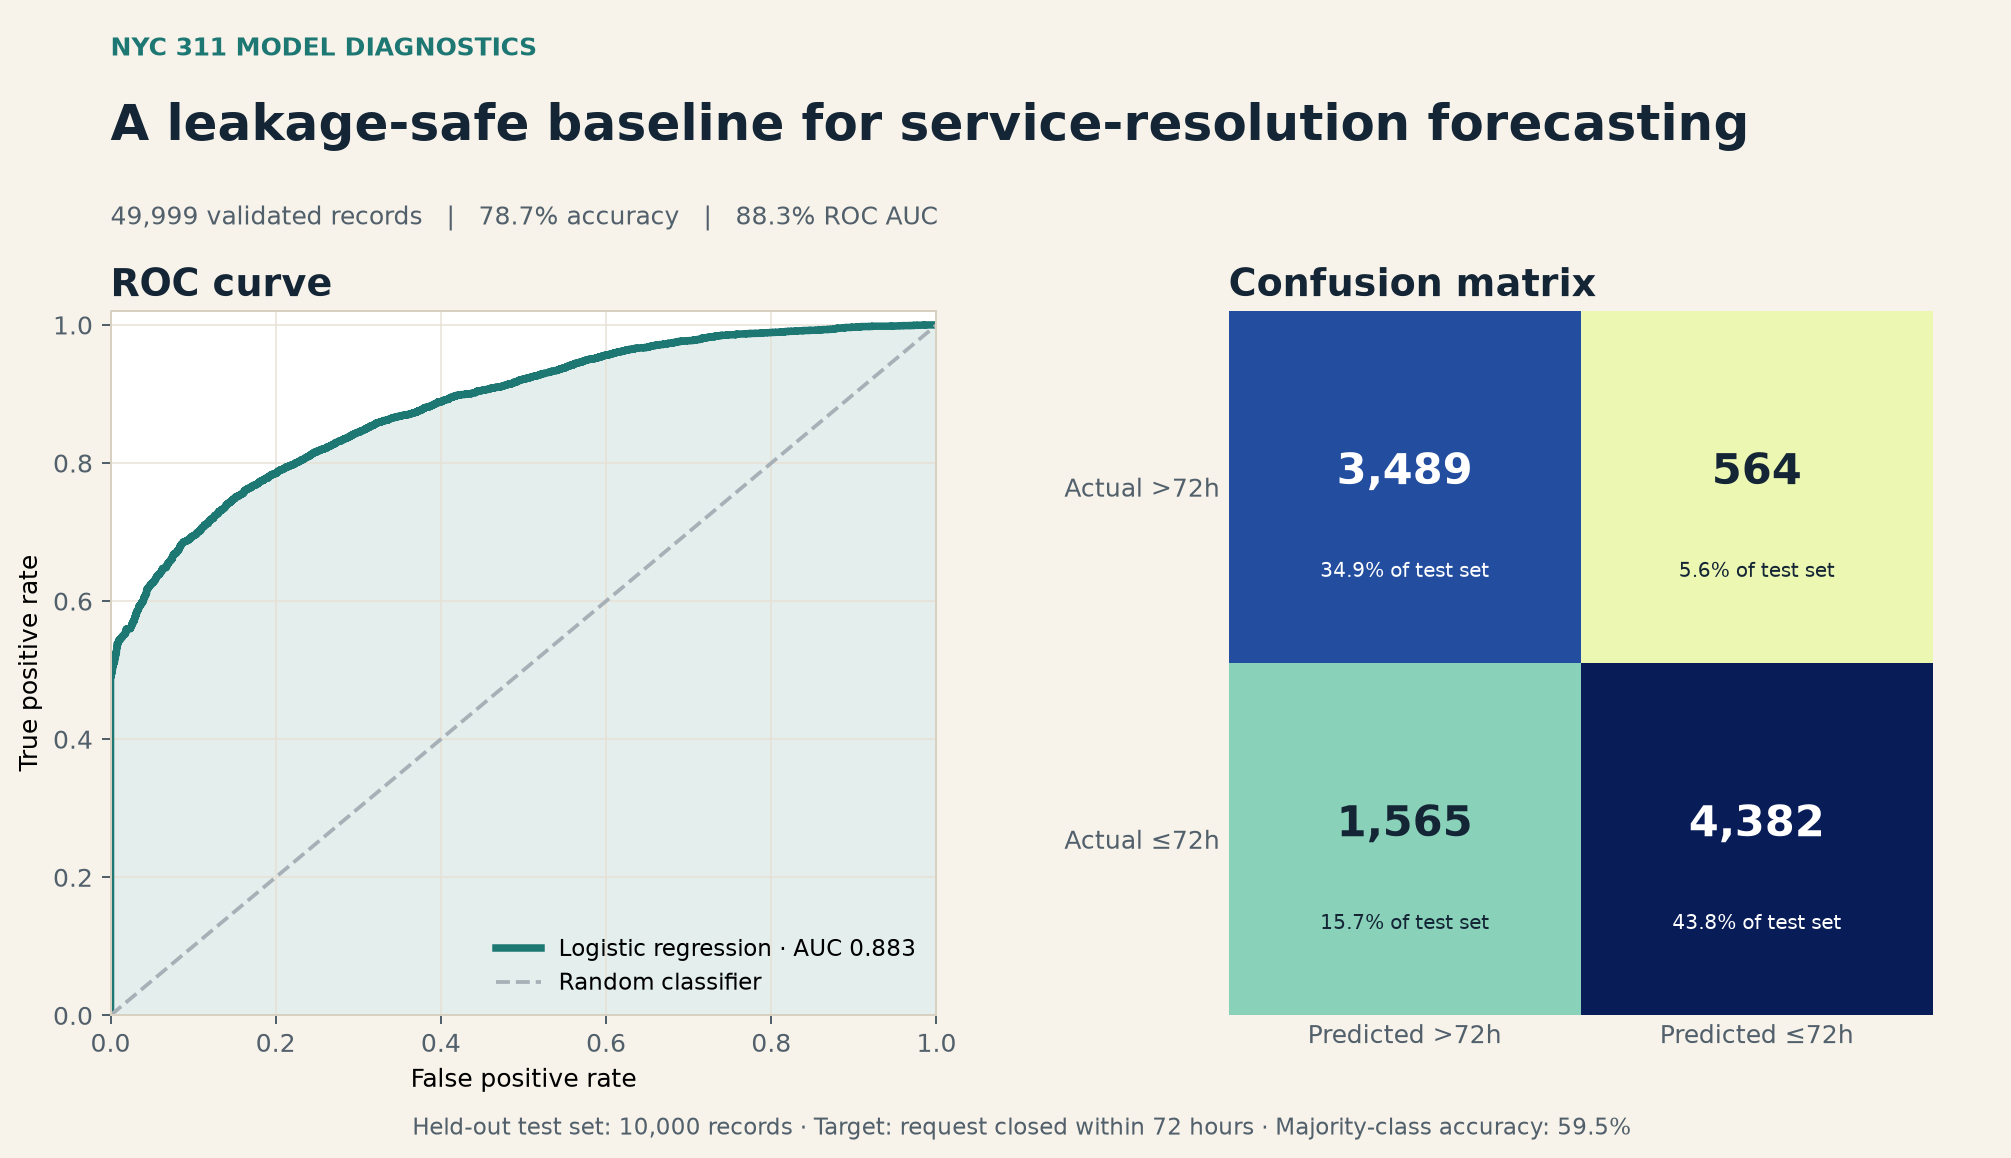
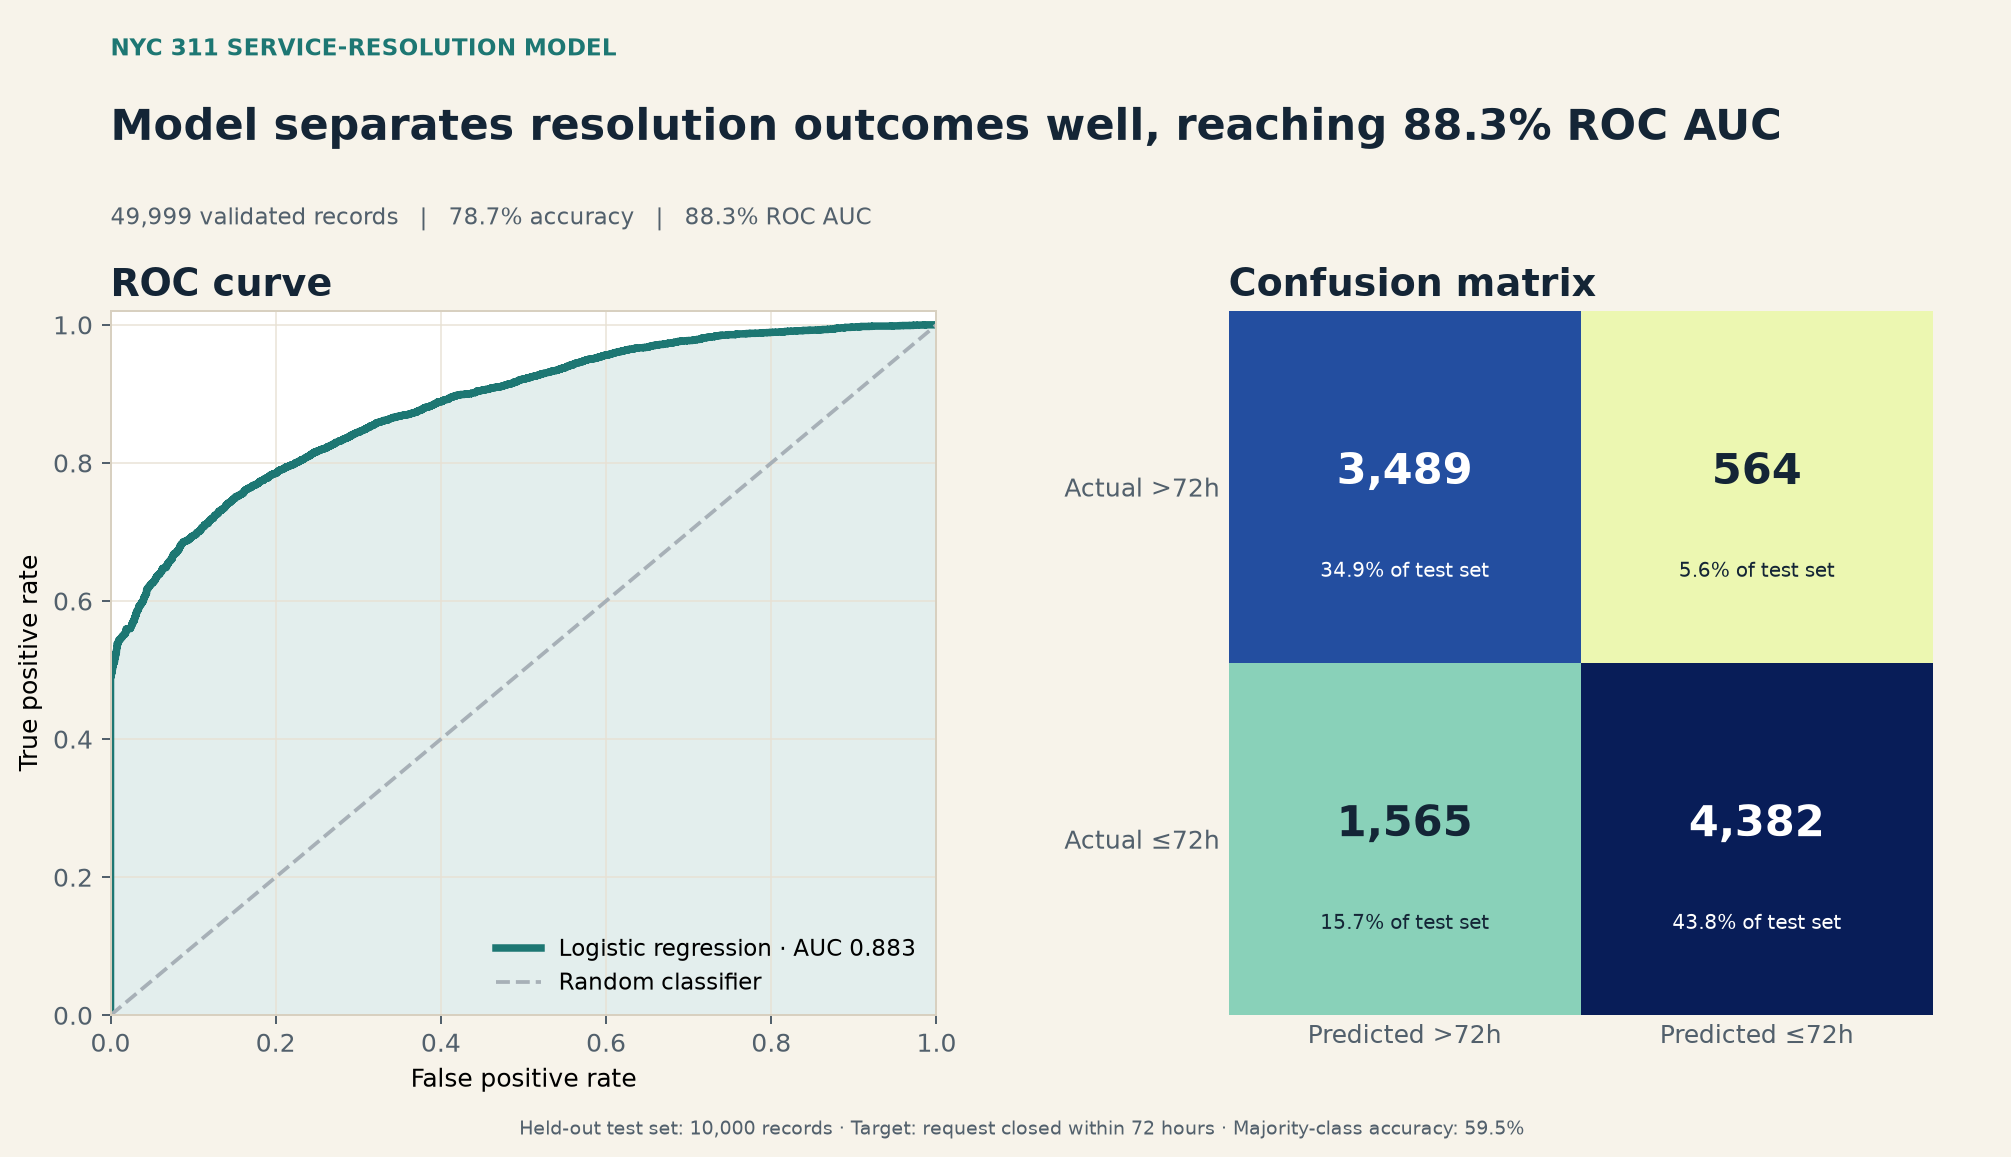
Refine branding and portfolio presentation

diff --git a/index.html b/index.html
@@ -24,7 +24,7 @@
       <div class="hero-copy">
         <p class="eyebrow">Columbus, Ohio · Data science and analytics</p>
         <h1>Operations-minded data analyst who turns messy information into decisions people can use.</h1>
-        <p class="lede">I’m Ekow Yalley, a University of Michigan graduate with a B.S. in Econometrics/Data Science and Biology. I build models, reporting pipelines, validation systems, and operational data workflows with Python, SQL, and AWS.</p>
+        <p class="lede">I’m Ekow Yalley, a University of Michigan graduate with a B.S. double major in Data Science (Econometrics) and Biology. I build models, reporting pipelines, validation systems, and operational data workflows with Python, SQL, and AWS.</p>
         <div class="actions">
           <a class="button primary" href="#projects">View selected work</a>
           <a class="button secondary" href="mailto:ekowny@gmail.com">Email Ekow</a>
@@ -83,7 +83,7 @@
           <div class="project-kicker"><span>Predictive modeling</span><span>6 validation checks passed</span></div>
           <h3>AWS NYC 311 Service Resolution Modeling</h3>
           <p>Built a leakage-safe logistic-regression baseline using 49,999 validated public NYC 311 records and a target derived from actual creation and closure timestamps.</p>
-          <figure class="project-visual"><img src="nyc311_model_diagnostics.png" alt="ROC curve and confusion matrix for the NYC 311 service-resolution model"><figcaption>Held-out model diagnostics: 88.3% ROC AUC across 10,000 test records.</figcaption></figure>
+          <figure class="project-visual"><img src="nyc311_model_diagnostics.png" alt="ROC curve and confusion matrix for the NYC 311 service-resolution model"><figcaption>ROC curve and confusion matrix generated from the model’s saved test-set predictions.</figcaption></figure>
           <dl class="metrics">
             <div><dt>Accuracy</dt><dd>78.7%</dd></div>
             <div><dt>Balanced accuracy</dt><dd>79.9%</dd></div>
@@ -109,6 +109,7 @@
           <p>As Data Lead, organized months of train-run data into car-, condition-, and segment-level comparisons, surfaced recurring differences in rail-car behavior, and built comparative visual material for technical discussions about maintenance and safety priorities.</p>
           <p class="note"><strong>Private-data note:</strong> the underlying rail dataset and code cannot be published.</p>
           <div class="tags"><span>Python</span><span>Orange</span><span>EDA</span><span>Visualization</span></div>
+          <div class="card-actions"><a href="https://ekowyalley.github.io/Professional-Portfolio/rail-operations.html">Read project case study</a></div>
         </article>
 
       </div>
@@ -117,12 +118,13 @@
     <section class="section fun-projects" id="fun-projects">
       <div class="section-heading"><p class="eyebrow">Built for fun</p><h2>Side projects and experiments</h2><p>Smaller builds that show curiosity and range without competing with the data-focused work above.</p></div>
       <article class="fun-card"><div><p class="project-kicker"><span>Python application</span><span>Runnable locally</span></p><h3>Me vs. You</h3><p>A two-player Snake adaptation built with Python Turtle, including separate controls, live scoring, body growth, and player-to-player collision logic.</p></div><div class="card-actions"><a href="https://ekowyalley.github.io/Professional-Portfolio/me-vs-you.html">Project note</a><a href="https://github.com/EkowYalley/Me-vs-You" target="_blank" rel="noopener">GitHub repository</a></div></article>
+    </section>
 
     <section class="section education" id="education">
       <div class="section-heading"><p class="eyebrow">Education</p><h2>University of Michigan — Ann Arbor</h2></div>
       <div class="education-card">
-        <div><h3>Bachelor of Science (B.S.)</h3><p>Double major: Econometrics/Data Science and Biology</p></div>
-        <div class="education-meta"><span>Sep 2017–May 2021</span><span>GPA 3.88</span></div>
+        <div><h3>Bachelor of Science (B.S.)</h3><p>Double major: Data Science (Econometrics) and Biology</p></div>
+        <div class="education-meta"><span>Sep 2017–May 2021</span></div>
       </div>
     </section>
 
@@ -130,7 +132,7 @@
       <p class="eyebrow">Contact</p>
       <h2>Looking for an analyst who can connect technical work to operations?</h2>
       <p>I’m exploring junior data analyst, BI, reporting, operations-analytics, data-quality, and data science opportunities.</p>
-      <div class="actions"><a class="button primary" href="mailto:ekowny@gmail.com">ekowny@gmail.com</a><a class="button secondary light" href="https://www.linkedin.com/in/ekow-yalley-29869a260/" target="_blank" rel="noopener">LinkedIn</a><a class="button secondary light" href="https://github.com/EkowYalley" target="_blank" rel="noopener">GitHub</a></div>
+      <div class="actions"><a class="button primary" href="mailto:ekowny@gmail.com">Email</a><a class="button secondary light" href="https://www.linkedin.com/in/ekow-yalley-29869a260/" target="_blank" rel="noopener">LinkedIn</a><a class="button secondary light" href="https://github.com/EkowYalley" target="_blank" rel="noopener">GitHub</a></div>
     </section>
   </main>
 

diff --git a/styles.css b/styles.css
@@ -77,10 +77,14 @@ h3 { margin-bottom: .35rem; font-size: 1.35rem; }
 .education-card { display: flex; justify-content: space-between; gap: 2rem; padding: 2rem 0; border-top: 1px solid var(--line); border-bottom: 1px solid var(--line); }
 .education-card p { margin: 0; }
 .education-meta { display: flex; gap: 1.5rem; color: var(--muted); font-weight: 700; }
-.contact { padding: 6.5rem max(2rem, calc((100vw - var(--max)) / 2)); background: var(--maize); }
-.contact h2 { max-width: 820px; }
-.contact > p:not(.eyebrow) { max-width: 720px; font-size: 1.05rem; }
-.button.light { border-color: var(--ink); color: var(--ink); }
+.contact { padding: 6.5rem max(2rem, calc((100vw - var(--max)) / 2)); background: #00274c; color: white; border-top: 10px solid #ffcb05; }
+.contact .eyebrow { color: #ffcb05; }
+.contact h2 { max-width: 820px; color: white; }
+.contact > p:not(.eyebrow) { max-width: 720px; color: #d9e2ec; font-size: 1.05rem; }
+.contact .button.primary { background: #ffcb05; border-color: #ffcb05; color: #00274c; }
+.contact .button.primary:hover, .contact .button.primary:focus { background: white; border-color: white; }
+.button.light { border-color: rgba(255,255,255,.75); color: white; }
+.button.light:hover, .button.light:focus { border-color: #ffcb05; color: #ffcb05; }
 footer { padding: 1.5rem 2rem; display: flex; justify-content: space-between; background: var(--navy); color: #cbd5e3; font-size: .82rem; }
 .contact-page { min-height: 100vh; background: var(--navy); color: var(--white); }
 .contact-shell { max-width: 860px; margin: 0 auto; padding: 7rem 2rem; }
